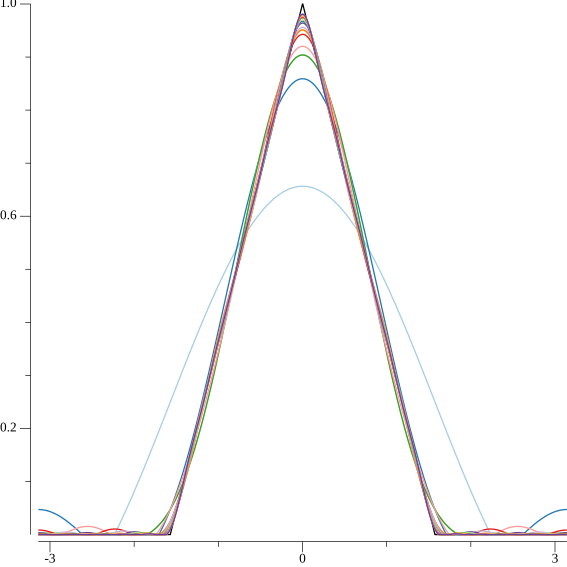
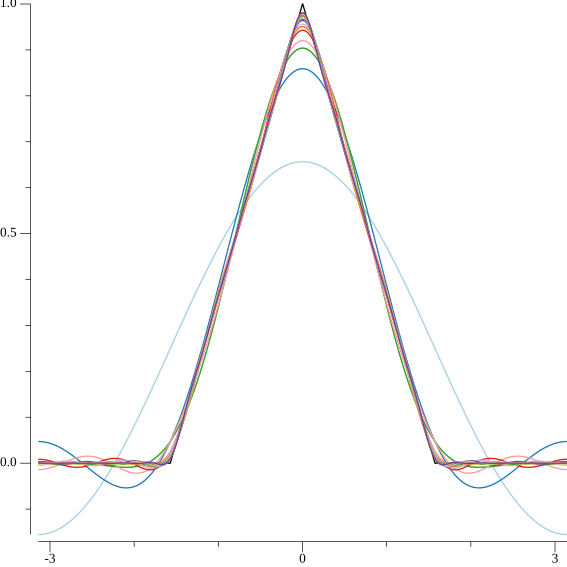
CH02: fix y-axis handling

diff --git a/CH02/CH02_SEC01_1_FourierSines.go b/CH02/CH02_SEC01_1_FourierSines.go
@@ -136,7 +136,7 @@ func main() {
 	canvases := plot.Align(p2, draw.Tiles{Rows: 2, Cols: 1}, draw.New(img))
 	for i, c := range canvases {
 		p2[i][0].Y.Max = 1
-		p2[i][0].Y.Scale = plot.LogScale{}
+		p2[i][0].Y.Scale = logScale{}
 		p2[i][0].Draw(c[0])
 	}
 
@@ -172,17 +172,26 @@ func slicesToXYs(x, y []float64) plotter.XYs {
 	}
 	xy := make(plotter.XYs, len(x))
 	for i := range x {
-		xy[i] = plotter.XY{X: x[i], Y: math.Max(y[i], 1e-16)}
+		xy[i] = plotter.XY{X: x[i], Y: y[i]}
 	}
 	return xy
+}
+
+type logScale struct{}
+
+func (logScale) Normalize(min, max, x float64) float64 {
+	min = math.Max(min, 1e-16)
+	max = math.Max(max, 1e-16)
+	x = math.Max(x, 1e-16)
+	logMin := math.Log(min)
+	return (math.Log(x) - logMin) / (math.Log(max) - logMin)
 }
 
 type logTicks struct{ powers int }
 
 func (t logTicks) Ticks(min, max float64) []plot.Tick {
-	if min <= 0 || max <= 0 {
-		panic("Values must be greater than 0 for a log scale.")
-	}
+	min = math.Max(min, 1e-16)
+	max = math.Max(max, 1e-16)
 	if t.powers < 1 {
 		t.powers = 1
 	}

diff --git a/CH02/CH02_SEC01_1_FourierSines.md b/CH02/CH02_SEC01_1_FourierSines.md
@@ -141,7 +141,7 @@ func main() {
 	canvases := plot.Align(p2, draw.Tiles{Rows: 2, Cols: 1}, draw.New(img))
 	for i, c := range canvases {
 		p2[i][0].Y.Max = 1
-		p2[i][0].Y.Scale = plot.LogScale{}
+		p2[i][0].Y.Scale = logScale{}
 		p2[i][0].Draw(c[0])
 	}
 
@@ -180,17 +180,26 @@ func slicesToXYs(x, y []float64) plotter.XYs {
 	}
 	xy := make(plotter.XYs, len(x))
 	for i := range x {
-		xy[i] = plotter.XY{X: x[i], Y: math.Max(y[i], 1e-16)}
+		xy[i] = plotter.XY{X: x[i], Y: y[i]}
 	}
 	return xy
+}
+
+type logScale struct{}
+
+func (logScale) Normalize(min, max, x float64) float64 {
+	min = math.Max(min, 1e-16)
+	max = math.Max(max, 1e-16)
+	x = math.Max(x, 1e-16)
+	logMin := math.Log(min)
+	return (math.Log(x) - logMin) / (math.Log(max) - logMin)
 }
 
 type logTicks struct{ powers int }
 
 func (t logTicks) Ticks(min, max float64) []plot.Tick {
-	if min <= 0 || max <= 0 {
-		panic("Values must be greater than 0 for a log scale.")
-	}
+	min = math.Max(min, 1e-16)
+	max = math.Max(max, 1e-16)
 	if t.powers < 1 {
 		t.powers = 1
 	}
